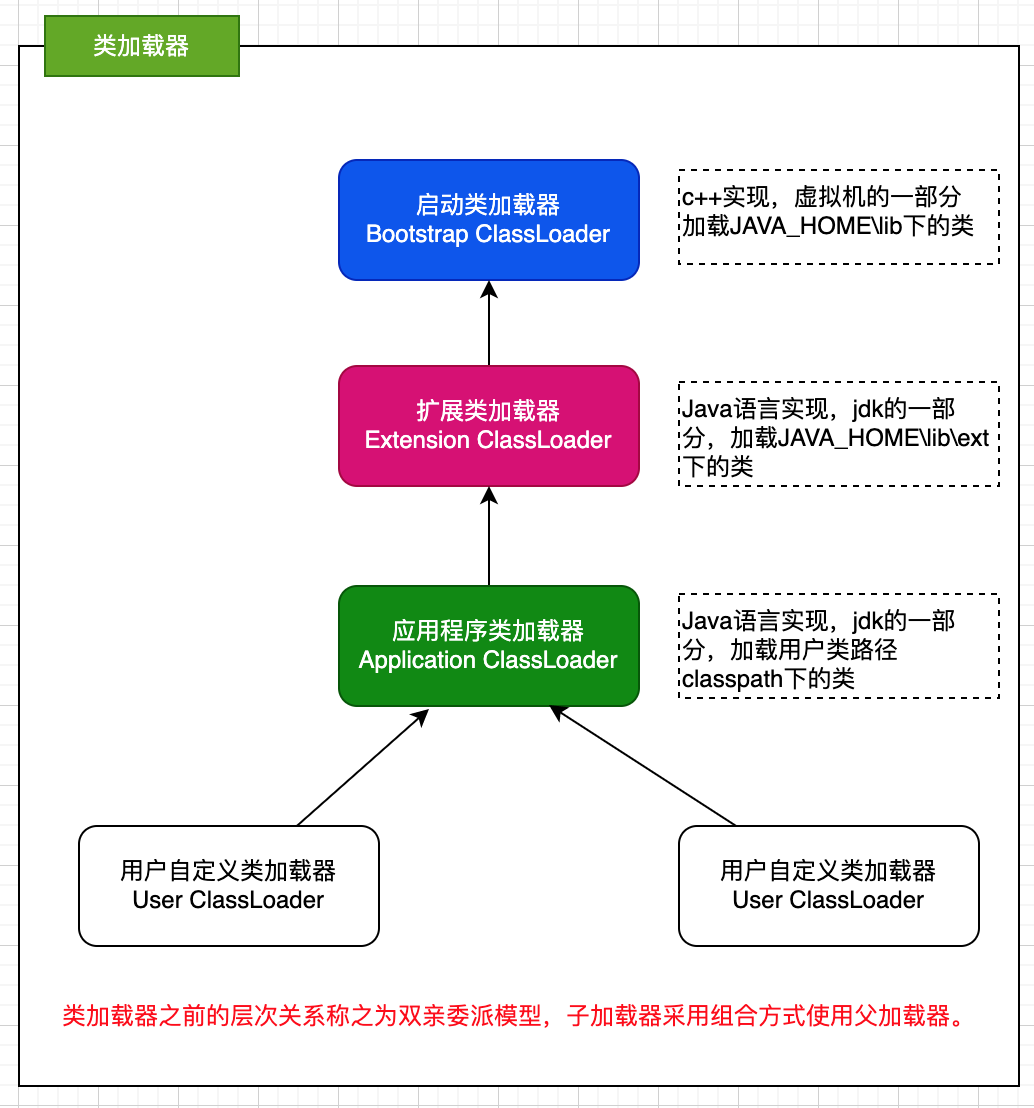
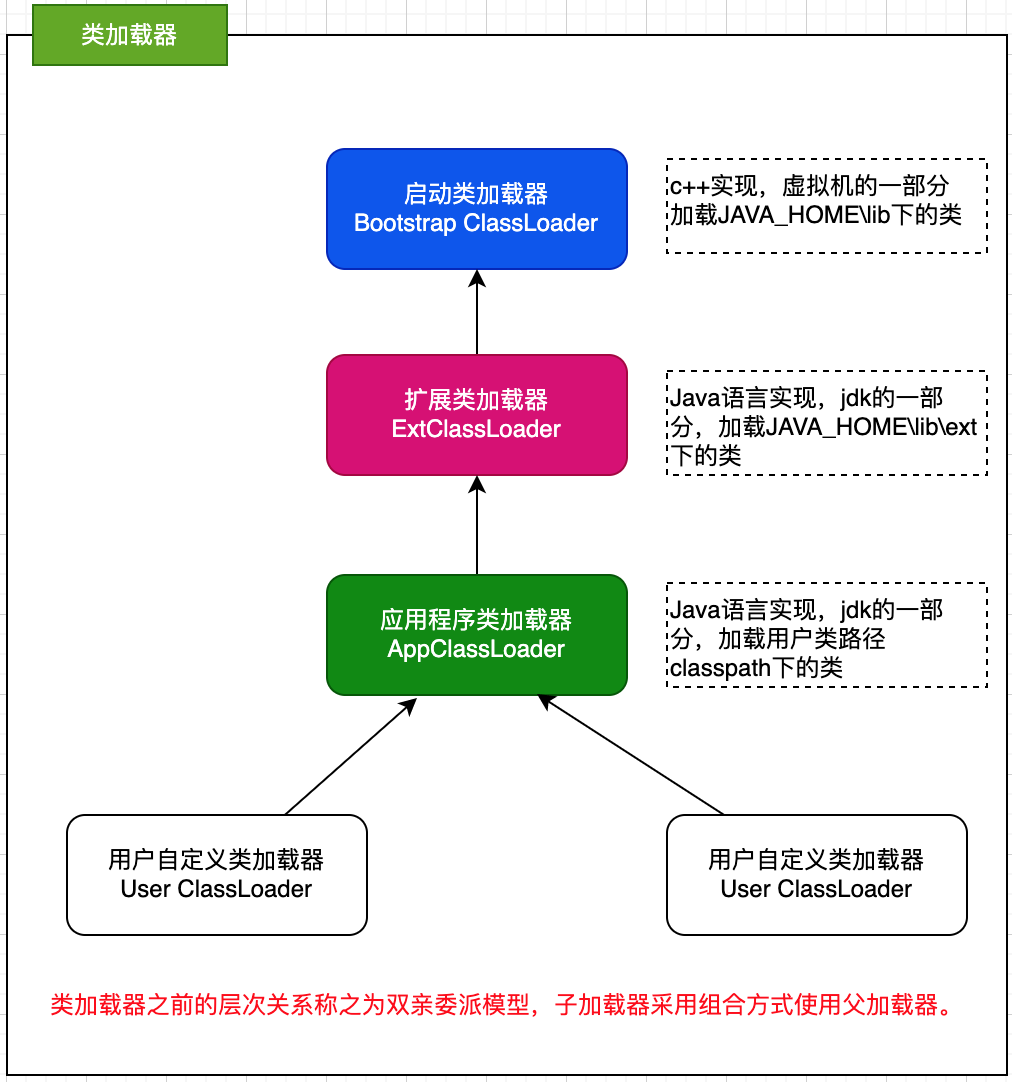
完善文章

diff --git a/mb/post/jvm/类加载器/index.html b/mb/post/jvm/类加载器/index.html
@@ -167,7 +167,7 @@
 </code></pre></td></tr></table></div></div><h2 id=破坏双亲委派>破坏双亲委派</h2><ul><li><p>远古时代
 JDK1.2之后才引入了双亲委派模型，但是类加载器和和抽象类ClassLoader在第一个版本就存在，所以为了兼容1.2之前的用户自定义的类加载器，JDK1.2的ClassLoader种新增了protected的findClass方法，并引导用户编写类加载器时重新findClass而不是loadClass。因为loadClass方法里的逻辑就是双亲委派的逻辑实现。</p></li><li><p>JDNI服务时代
 双亲委派模型很好地解决了各个类加载器在加载基础类型的一致性问题，但是如果是基础类中需要调用用户类的代码呢？（典型场景就是JNDI服务）</p></li></ul><blockquote><p>JNDI已经是Java标志服务，它的代码由启动类加载器加载完成（JDK1.3中在rt.jar中），属于很基础的类型。但JNDI是为了对资源的管理和查找，它需要调用其他厂商实现并部署在用户Classpath下的JNDI服务提供者（Service Provider Interface）接口的代码。</p></blockquote><p>为了解决这个问题，Java设计团队引入了线程上下文类加载器（Context ClassLoader）。
-这个类加载器可以通过java.lang.Thread类的setContextClassLoader()方 法进行设置，如果创建线程时还未设置，它将会从父线程中继承一个，如果在应用程序的全局范围内 都没有设置过的话，那这个类加载器默认就是应用程序类加载器（Application ClassLoader）。</p><p>JNDI服务使用线程上下文类加载器取加载所需的SPI服务的代码，是在Bootstrap类加载器中调用了应用类加载器去加载用户类路径里的代码，打破了双亲委派。</p><p>其中JNDI、JDBC等涉及SPI的服务都是采用线程上下文方式处理的，到JDK6之后引入了<code>ServiceLoader</code>加上<code>META-INFO/services</code>中配置信息的方案完善SPI服务的加载。</p><ul><li>追求程序动态性时代
+这个类加载器可以通过java.lang.Thread类的setContextClassLoader()方 法进行设置，如果创建线程时还未设置，它将会从父线程中继承一个，如果在应用程序的全局范围内 都没有设置过的话，那这个类加载器默认就是应用程序类加载器（AppClassLoader）。</p><p>JNDI服务使用线程上下文类加载器取加载所需的SPI服务的代码，是在Bootstrap类加载器中调用了应用类加载器去加载用户类路径里的代码，打破了双亲委派。</p><p>其中JNDI、JDBC等涉及SPI的服务都是采用线程上下文方式处理的，到JDK6之后引入了<code>ServiceLoader</code>加上<code>META-INFO/services</code>中配置信息的方案完善SPI服务的加载。</p><ul><li>追求程序动态性时代
 如代码热替换（Hot Swap)、模块热部署（Moduel Deployment）等。
 IBM的OSGI实现了模块化热部署，对类加载机制做了改进。（Java9才推出了模块化，才算是稳住）</li></ul><p><a data-fancybox=gallery href=/mb/images/jvm2/class-loader/02.png><img class=mx-auto alt src=/mb/images/jvm2/class-loader/02.png></a></p><h2 id=参考资料>参考资料</h2><ul><li>周志明 * 《深入理解Java虚拟机》</li></ul></div><div class=post-archive><h2>See Also</h2><ul class=listing><li><a href=/mb/post/jvm/%E7%86%9F%E6%82%89Java%E7%B1%BB%E6%96%87%E4%BB%B6class%E7%BB%93%E6%9E%84/>熟悉Java类文件class结构</a></li><li><a href=/mb/post/jvm/%E7%86%9F%E6%82%89JVM%E5%AD%97%E8%8A%82%E7%A0%81%E6%8C%87%E4%BB%A4/>熟悉JVM字节码指令</a></li><li><a href=/mb/post/jvm/MacOs10_15_7%E7%BC%96%E8%AF%91openjdk8u/>MacOs10.15.7编译openjdk8u</a></li><li><a href=/mb/post/jvm/%E5%86%85%E5%AD%98%E5%88%86%E9%85%8D%E4%B8%8E%E5%9B%9E%E6%94%B6%E7%AD%96%E7%95%A5/>内存分配与回收策略</a></li><li><a href=/mb/post/jvm/%E5%9E%83%E5%9C%BE%E6%94%B6%E9%9B%86%E7%AE%97%E6%B3%95/>垃圾收集算法</a></li></ul></div><div class="post-meta meta-tags"><ul class=clearfix><li><a href=/mb/tags/java>java</a></li><li><a href=/mb/tags/jvm>jvm</a></li></ul></div></article><div id=waline></div><script src=//cdn.jsdelivr.net/npm/@waline/client></script><script>Waline({el:'#waline',serverURL:'https://valine-m1uexx7dk-mg0324.vercel.app',placeholder:'说点什么吧...'})</script></div><footer id=footer><div>&copy; 2022 <a href=/mb>程序猫大刚 By 程序猫大刚</a>
 | <a rel=nofollow target=_blank href=http://beian.miit.gov.cn/>粤ICP备17082965号</a></div><br><div><div class=github-badge><a href=https://gohugo.io/ target=_black rel=nofollow><span class=badge-subject>Powered by</span><span class="badge-value bg-blue">Hugo</span></a></div><div class=github-badge><a href=https://www.flysnow.org/ target=_black><span class=badge-subject>Design by</span><span class="badge-value bg-brightgreen">飞雪无情</span></a></div><div class=github-badge><a href=https://github.com/flysnow-org/maupassant-hugo target=_black><span class=badge-subject>Theme</span><span class="badge-value bg-yellowgreen">Maupassant</span></a></div></div></footer><script type=text/javascript>window.MathJax={tex2jax:{inlineMath:[['$','$']],processEscapes:!0}}</script><script src="//cdn.bootcdn.net/ajax/libs/mathjax/2.7.5/MathJax.js?config=TeX-MML-AM_CHTML" async></script><script src=//cdn.bootcdn.net/ajax/libs/fancybox/3.5.7/jquery.fancybox.min.js></script><a id=rocket href=#top></a><script type=text/javascript src="/mb/js/totop.js?v=0.0.0" async></script><script type=text/javascript src=//busuanzi.ibruce.info/busuanzi/2.3/busuanzi.pure.mini.js async></script><script src=/mb/js/douban.js></script></div><div id=secondary><section class=widget><form id=search action=/mb/search method=get accept-charset=utf-8 target=_blank _lpchecked=1><input type=text name=q maxlength=20 placeholder=Search>

diff --git a/content/post/jvm/类加载器.md b/content/post/jvm/类加载器.md
@@ -120,7 +120,7 @@ JDK1.2之后才引入了双亲委派模型，但是类加载器和和抽象类Cl
 > JNDI已经是Java标志服务，它的代码由启动类加载器加载完成（JDK1.3中在rt.jar中），属于很基础的类型。但JNDI是为了对资源的管理和查找，它需要调用其他厂商实现并部署在用户Classpath下的JNDI服务提供者（Service Provider Interface）接口的代码。
  
 为了解决这个问题，Java设计团队引入了线程上下文类加载器（Context ClassLoader）。
-这个类加载器可以通过java.lang.Thread类的setContextClassLoader()方 法进行设置，如果创建线程时还未设置，它将会从父线程中继承一个，如果在应用程序的全局范围内 都没有设置过的话，那这个类加载器默认就是应用程序类加载器（Application ClassLoader）。
+这个类加载器可以通过java.lang.Thread类的setContextClassLoader()方 法进行设置，如果创建线程时还未设置，它将会从父线程中继承一个，如果在应用程序的全局范围内 都没有设置过的话，那这个类加载器默认就是应用程序类加载器（AppClassLoader）。
 
 JNDI服务使用线程上下文类加载器取加载所需的SPI服务的代码，是在Bootstrap类加载器中调用了应用类加载器去加载用户类路径里的代码，打破了双亲委派。
 
